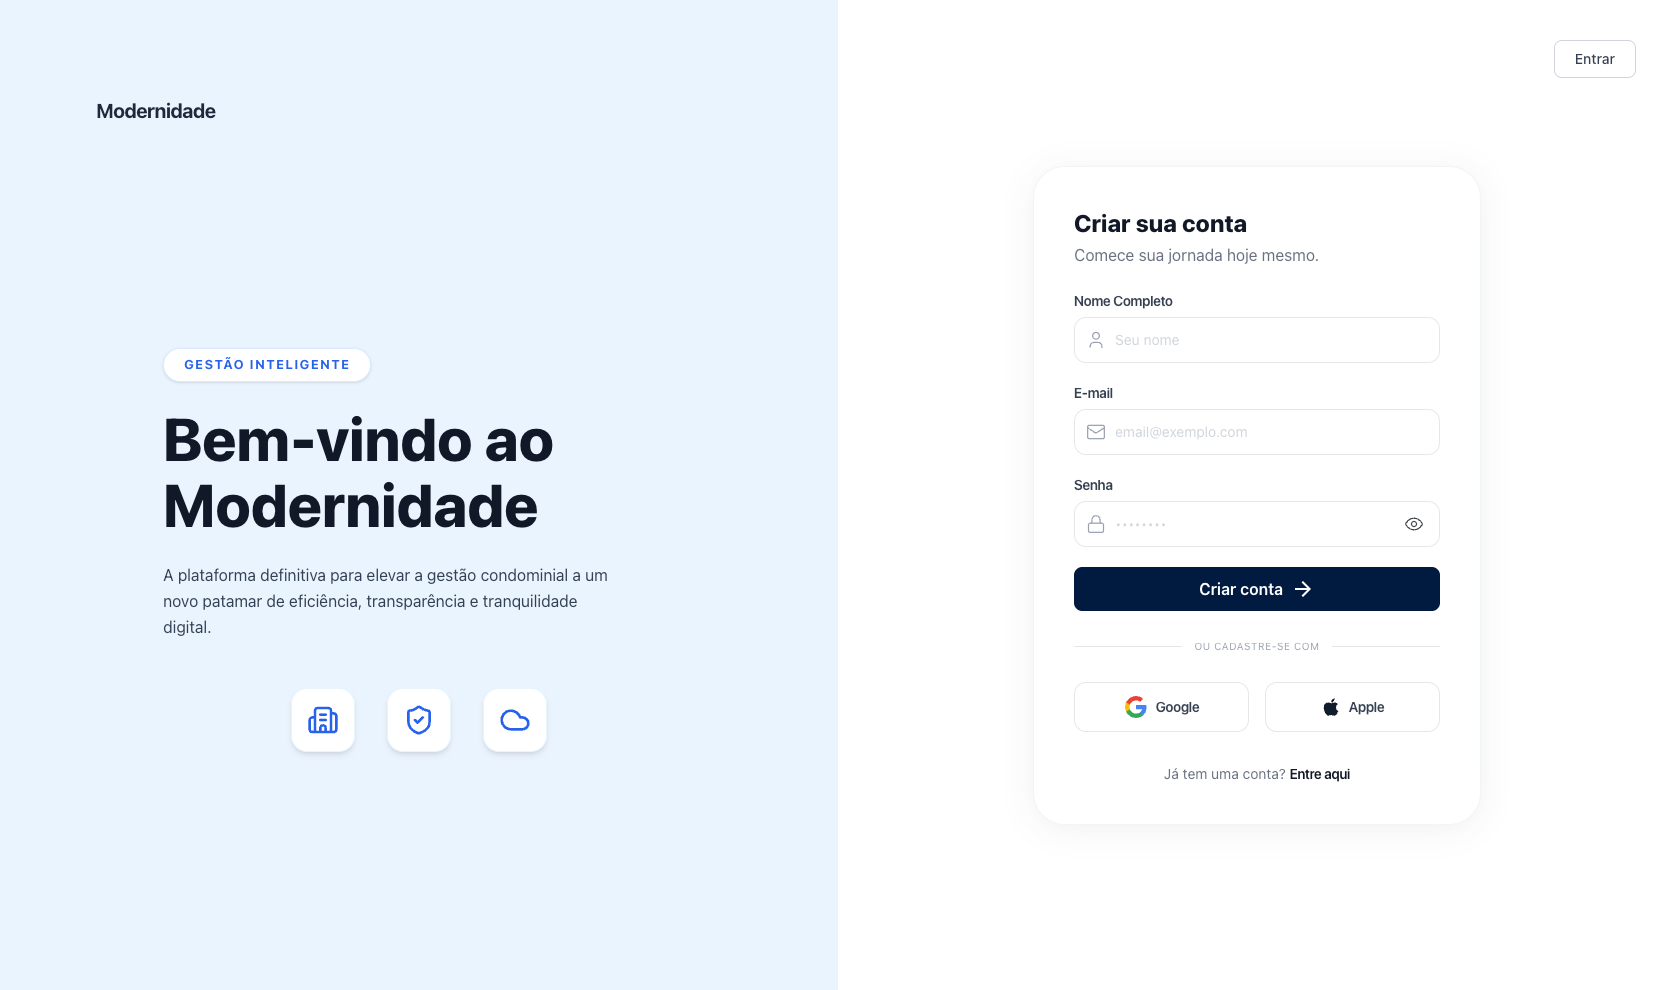
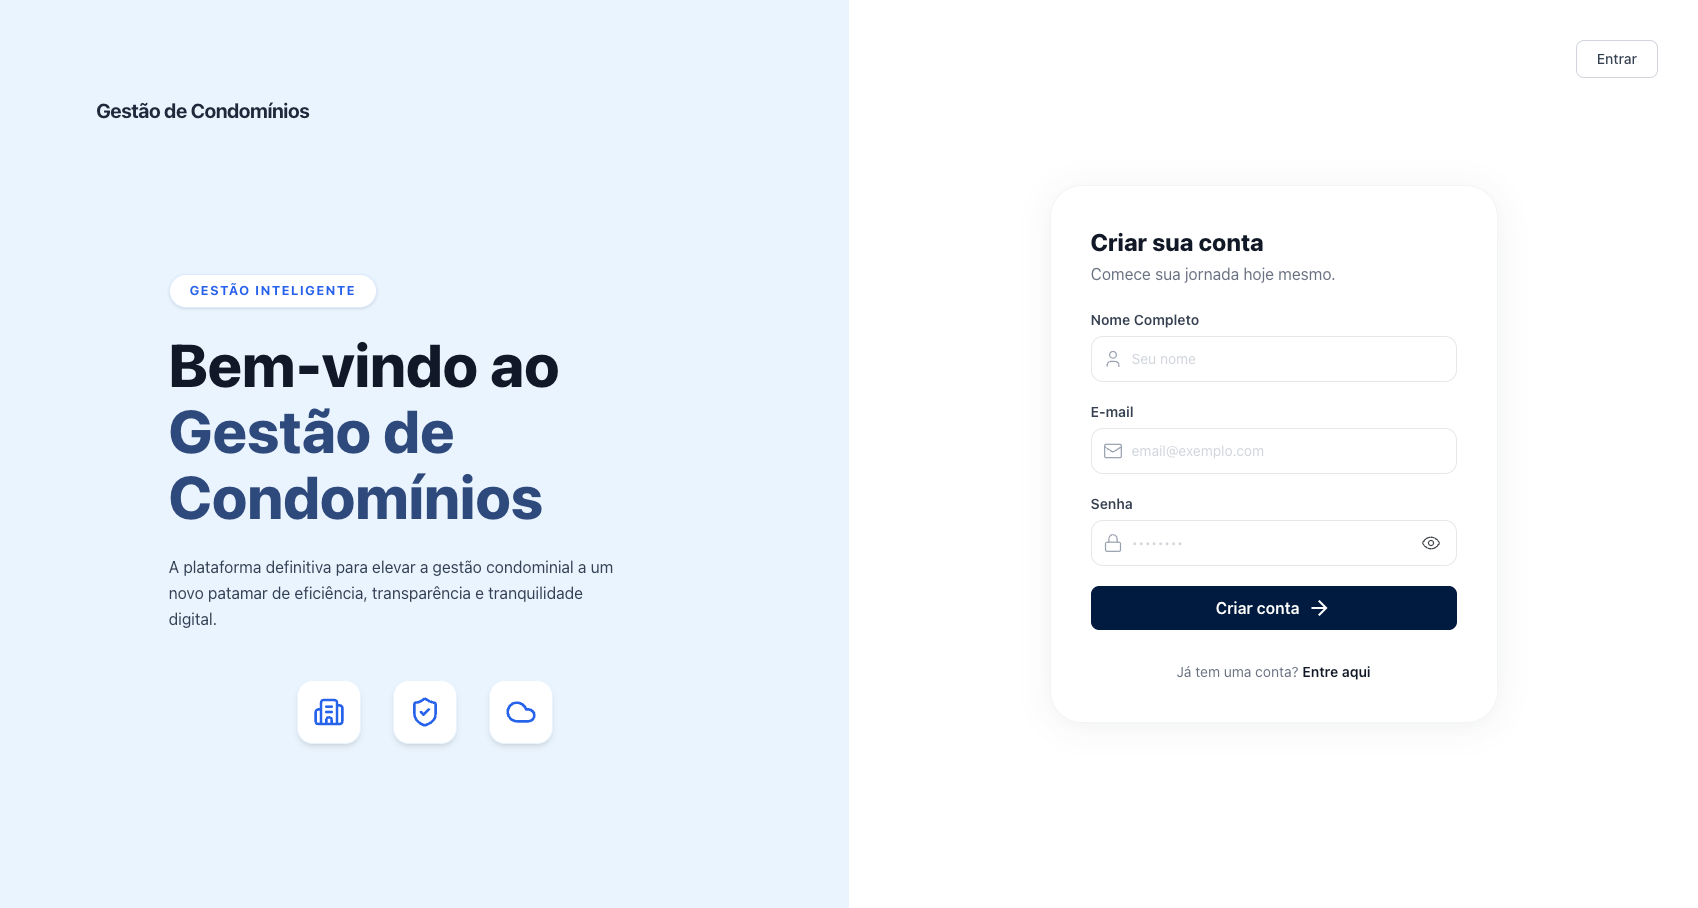
patch: rm Social authentication

diff --git a/docs/frontend-web.md b/docs/frontend-web.md
@@ -48,7 +48,7 @@ Ao acessar a tela de login, o usuário deverá inserir suas credenciais de email
 ### Cadastro
 ![Tela Cadastro](img/tela-cadastro.png)
 
-Ao acessar a tela de cadastro, o usuário deverá registar suas credenciais de nome, email e senha. Ao clicar em "Criar Conta", o usuário será redirecionado para a tela de login. Há as opções para cadastrar-se pelos provedores da Google ou Apple. Ao clicar para se cadastrar com o Google o usuário será encaminhado para a página de autenticação da Google. Ao clicar para se cadastrar com a Apple, o usuário será redirecionado para o site da Apple.
+Ao acessar a tela de cadastro, o usuário deverá registar suas credenciais de nome, email e senha. Ao clicar em "Criar Conta", o usuário será redirecionado para a tela de login.
 
 É possível ao usuário clicar na parte "Entrar" para ser redirecionado diretamente à página de Login.
 
